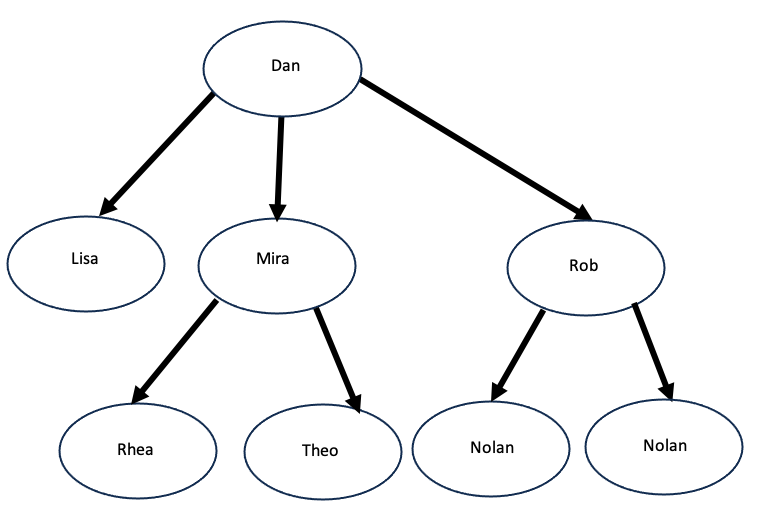
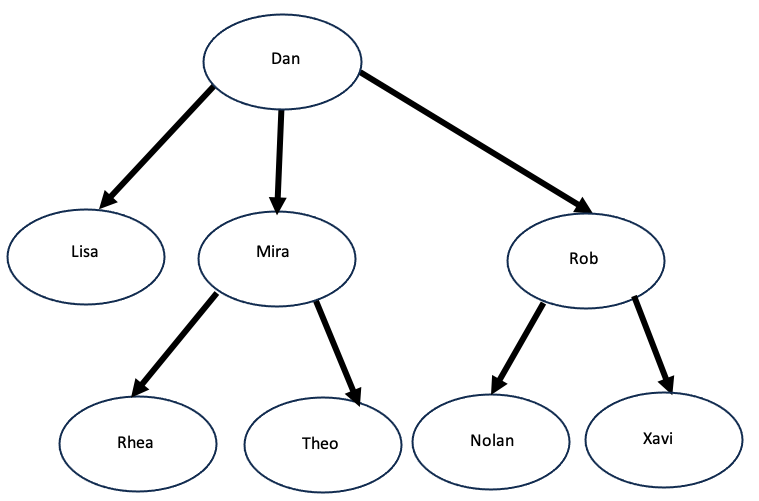
image in index1 changed to dan_dia2

diff --git a/index1.html b/index1.html
@@ -10,7 +10,7 @@
     <h1 id="heading1">Family Tree</h1>
     <div class="diagram-container">
         <div class="hotspot" id="overview"></div>
-        <img id="diagram" src="images/dan_dia1.png" alt="Diagram">
+        <img id="diagram" src="images/dan_dia2.png" alt="Diagram">
         
         <div class="hotspot" id="rnode1"></div>
         <div class="hotspot" id="l1-node1"></div>
